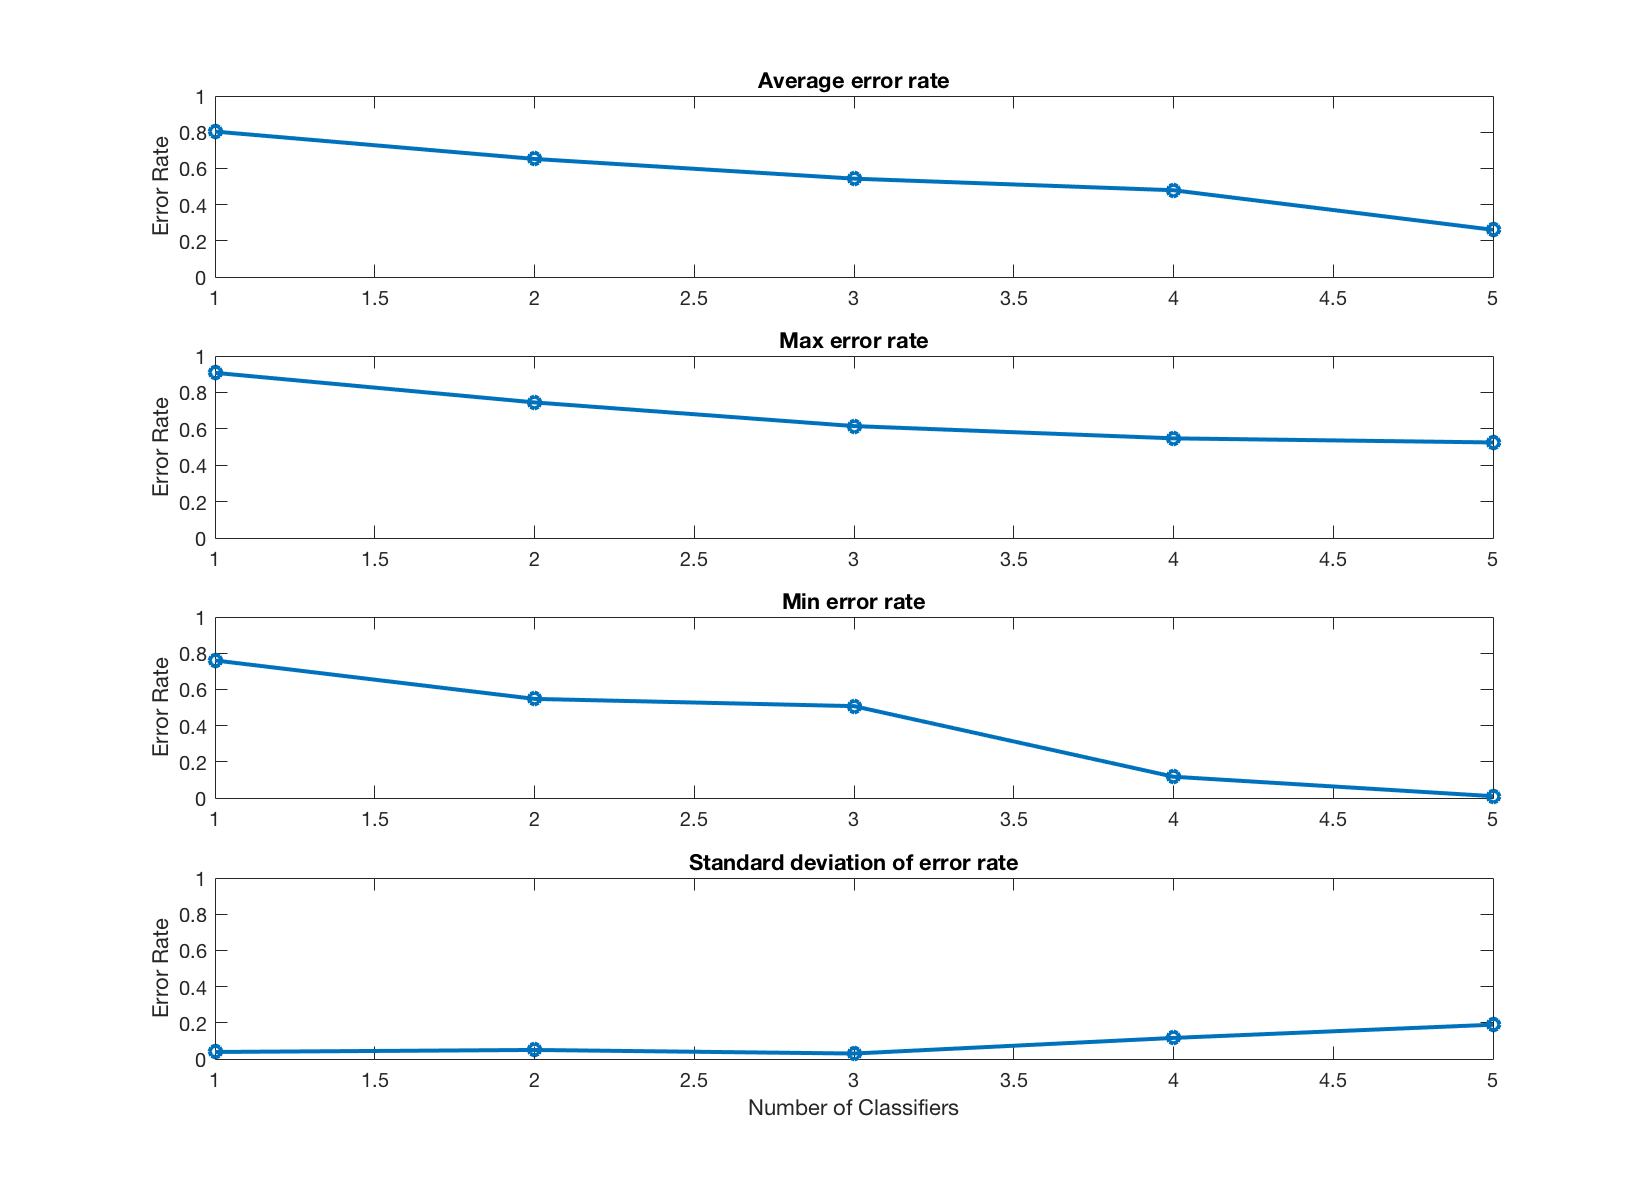
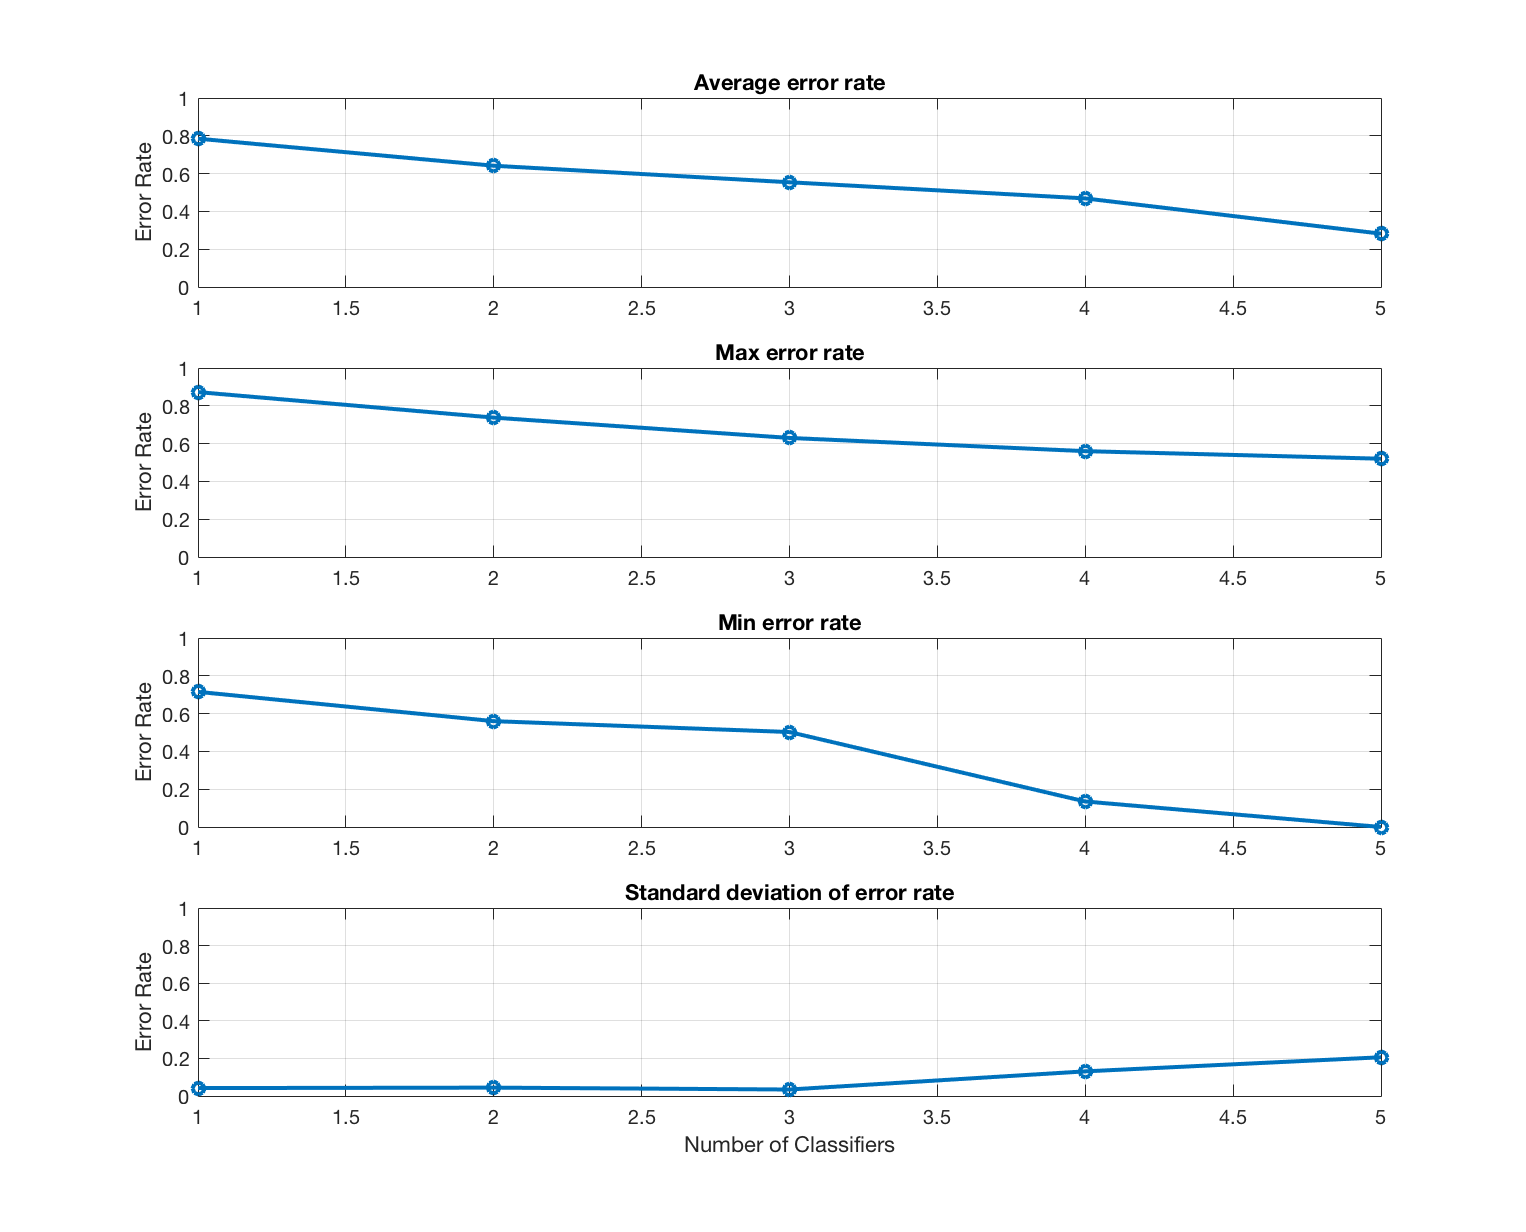
grid on

diff --git a/lab2q4_2_error_calc.m b/lab2q4_2_error_calc.m
@@ -35,6 +35,7 @@ plot(num_classifiers_list,avg_error_rate, '-o','LineWidth',2)
 ylabel('Error Rate')
 yticks([0 0.2 0.4 0.6 0.8 1.0])
 ylim([0 1])
+grid on
 title('Average error rate')
 
 subplot(4,1,2)
@@ -42,6 +43,7 @@ plot(num_classifiers_list,max_error, '-o','LineWidth',2)
 ylabel('Error Rate')
 yticks([0 0.2 0.4 0.6 0.8 1.0])
 ylim([0 1])
+grid on
 title('Max error rate')
 
 subplot(4,1,3)
@@ -49,6 +51,7 @@ plot(num_classifiers_list,min_error, '-o','LineWidth',2)
 ylabel('Error Rate')
 yticks([0 0.2 0.4 0.6 0.8 1.0])
 ylim([0 1])
+grid on
 title('Min error rate')
 
 subplot(4,1,4)
@@ -57,6 +60,7 @@ xlabel('Number of Classifiers')
 ylabel('Error Rate')
 yticks([0 0.2 0.4 0.6 0.8 1.0])
 ylim([0 1])
+grid on
 title('Standard deviation of error rate')
 
 function [disc_a, disc_b, num_wrong_a, num_wrong_b, xgrid, ygrid, predicted] = build_seq_classifier(lim_classifiers, a, b)
